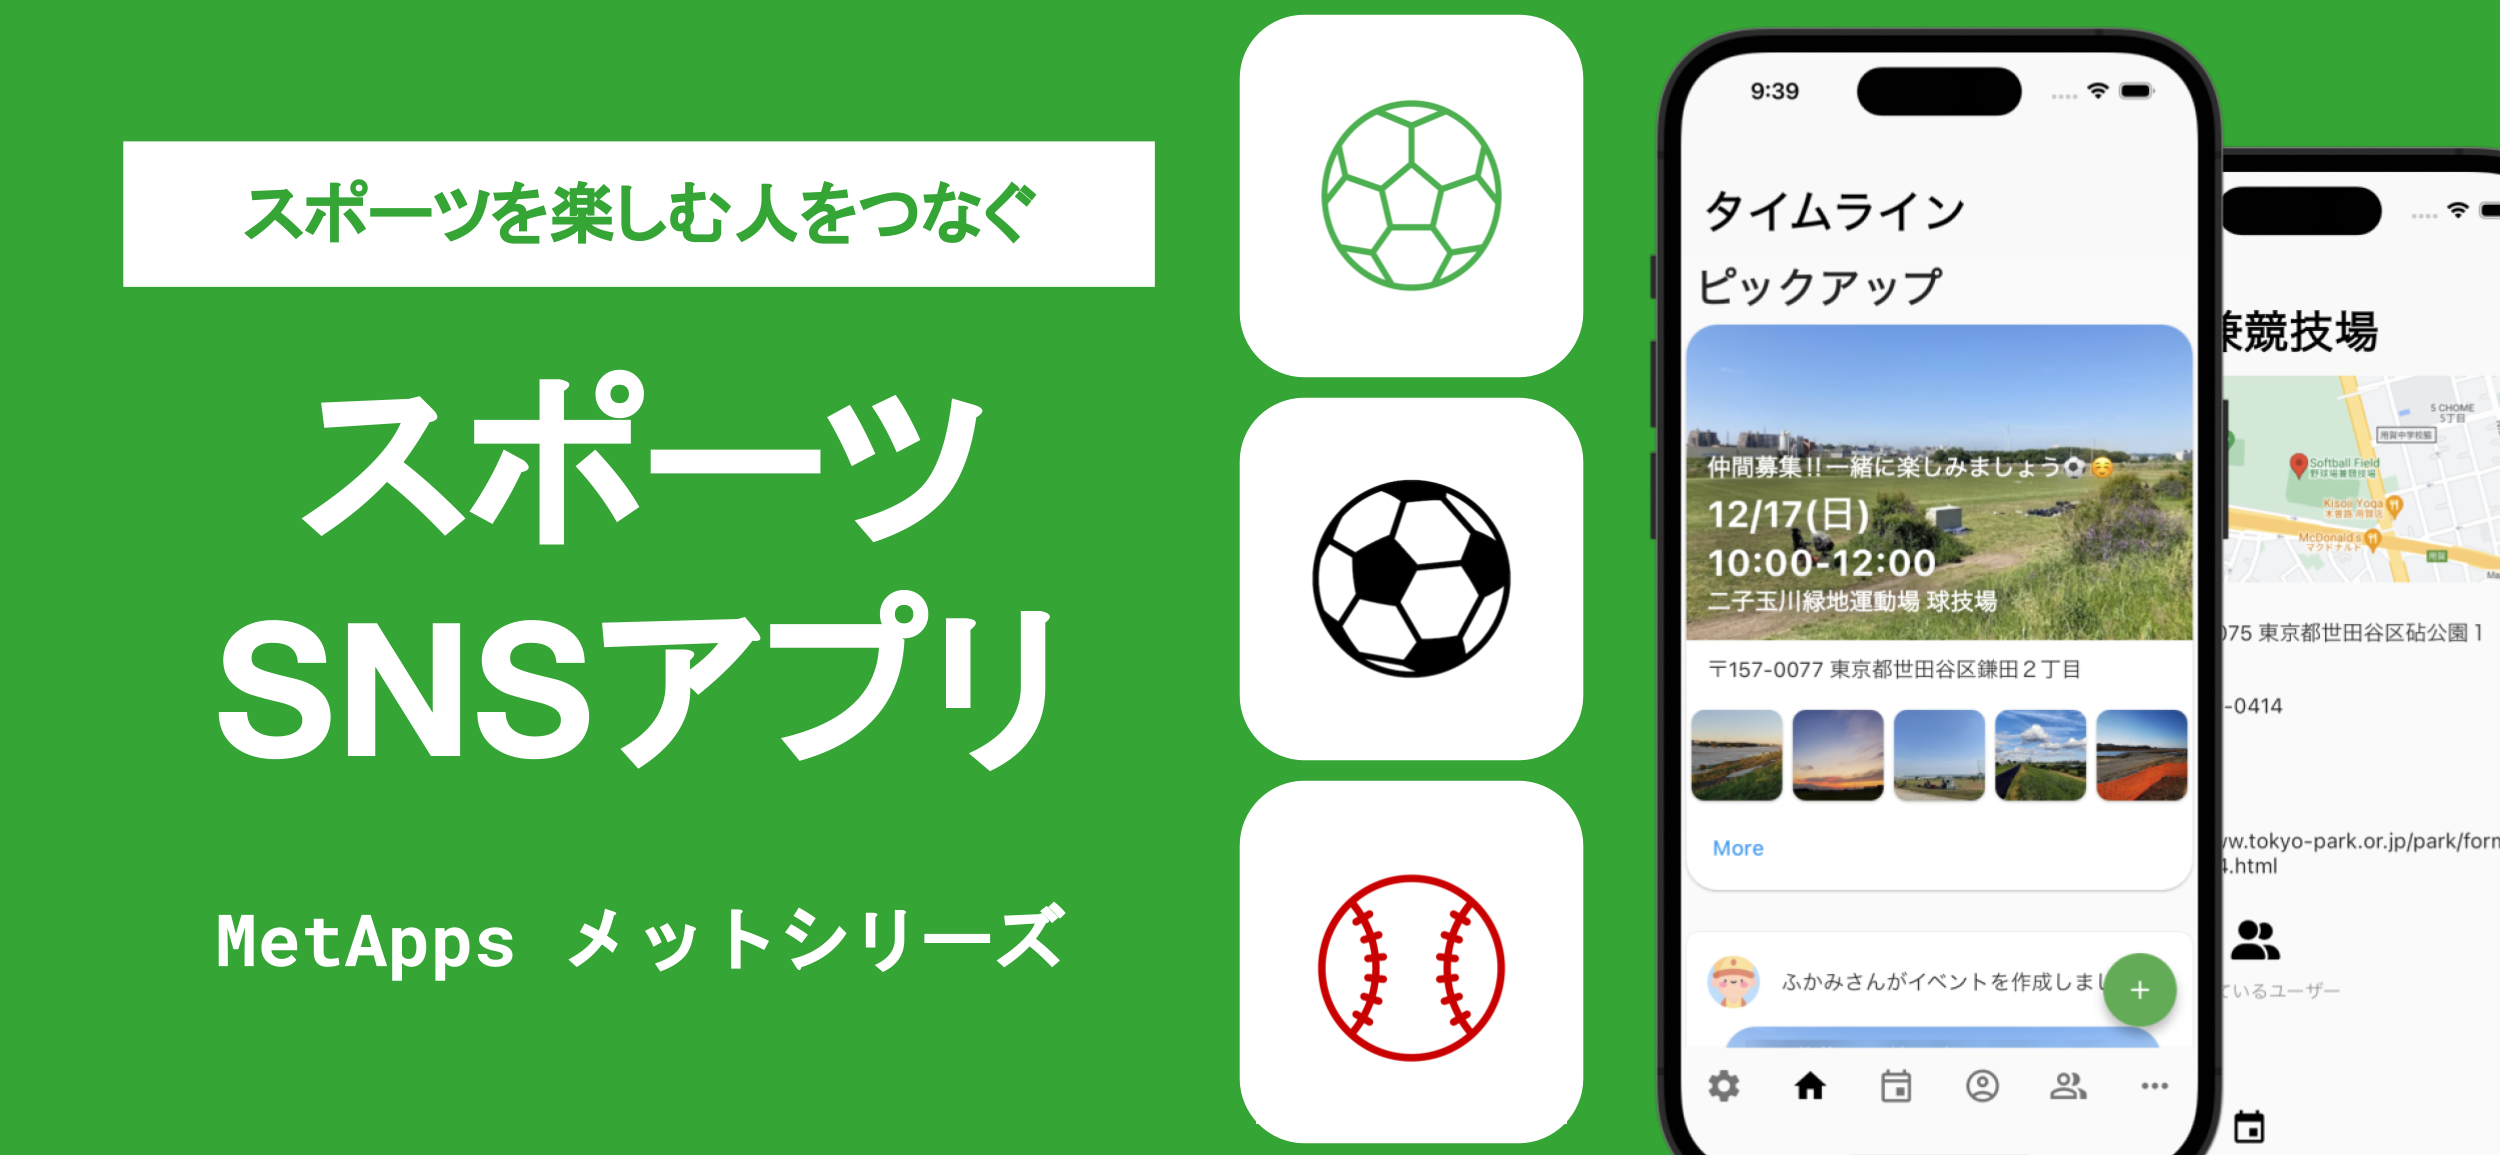
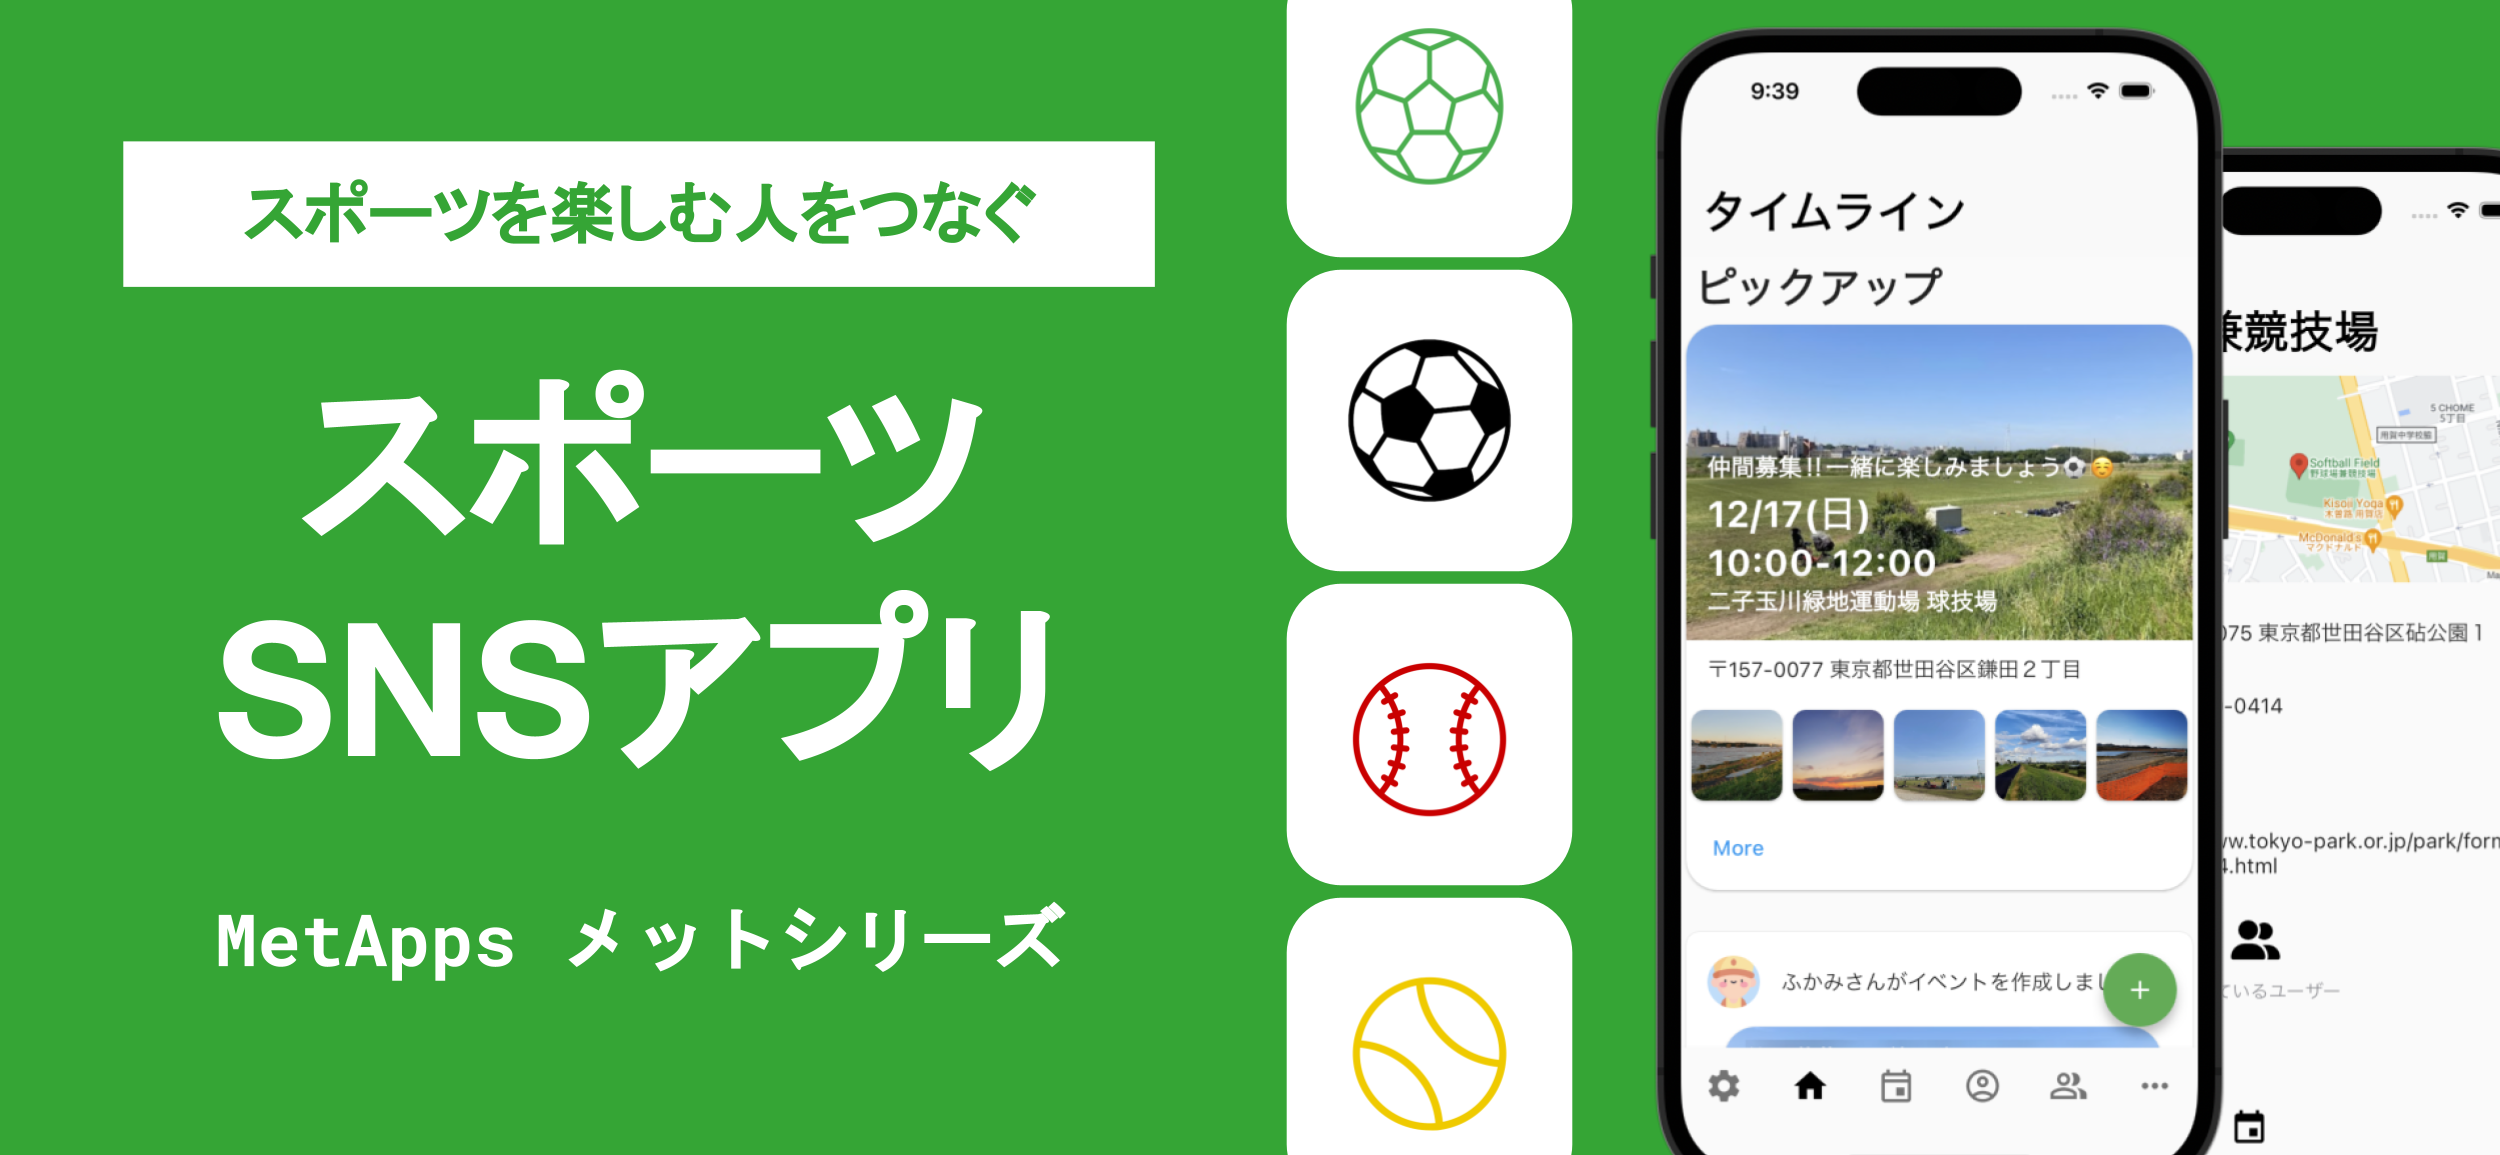
誠意的ファイル生成 #25

Changed region(s): [[0.468, 0.0, 0.6552, 1.0]]

diff --git a/docs/met-apps/index.html b/docs/met-apps/index.html
@@ -337,6 +337,34 @@ if (!doNotTrack) {
             </div>
         </div>
     </div>
+    <div class="container mt-100"  id="tennis-met">
+        <div class="columns">
+            <div class="column is-half">
+                <div style="text-align: center;">
+                    <img style="border: solid 5px white; border-radius: 30px; width: 180px;"
+                         src="https://company.p1st.app/images/logos/tennismet.png"
+                         alt="テニスメット"
+                    >
+                </div>
+            </div>
+            <div class="column is-half" style="margin-left: 0px; margin-top: 10px;">
+                <h1 class="light-text title is-2">テニスメット</h1>
+                <h1 class="light-text subtitle is-4">テニスSNSアプリ</h1>
+                <a href="https://itunes.apple.com/jp/app/6476718408">
+                    <img src="https://company.p1st.app/images/apps/App_Store_Badge.svg"
+                         style="height: 50px; vertical-align: top; margin-top: 11px;"
+                         alt="Download on the App Store"
+                    >
+                </a>
+                <a href="https://play.google.com/store/apps/details?id=app.p1st.tennis_met">
+                    <img src="https://company.p1st.app/images/apps/google-play-badge.png"
+                         style="height: 72px; vertical-align: top;"
+                         alt="GET IT ON Google Play"
+                    >
+                </a>
+            </div>
+        </div>
+    </div>
 
 </section>
 
@@ -657,6 +685,34 @@ if (!doNotTrack) {
             </div>
         </div>
     </div>
+    <div class="container mt-100"  id="tennis-met">
+        <div class="columns">
+            <div class="column is-half">
+                <div style="text-align: center;">
+                    <img style="border: solid 5px white; border-radius: 30px; width: 180px;"
+                         src="https://company.p1st.app/images/logos/tennismet.png"
+                         alt="テニスメット"
+                    >
+                </div>
+            </div>
+            <div class="column is-half" style="margin-left: 0px; margin-top: 10px;">
+                <h1 class="light-text title is-2">テニスメット</h1>
+                <h1 class="light-text subtitle is-4">テニスSNSアプリ</h1>
+                <a href="https://itunes.apple.com/jp/app/6476718408">
+                    <img src="https://company.p1st.app/images/apps/App_Store_Badge.svg"
+                         style="height: 50px; vertical-align: top; margin-top: 11px;"
+                         alt="Download on the App Store"
+                    >
+                </a>
+                <a href="https://play.google.com/store/apps/details?id=app.p1st.tennis_met">
+                    <img src="https://company.p1st.app/images/apps/google-play-badge.png"
+                         style="height: 72px; vertical-align: top;"
+                         alt="GET IT ON Google Play"
+                    >
+                </a>
+            </div>
+        </div>
+    </div>
 
 </section>
 
@@ -683,6 +739,7 @@ if (!doNotTrack) {
                                         <option value="フットサルメット">フットサルメット</option>
                                         <option value="サッカーメット">サッカーメット</option>
                                         <option value="草野球メット">草野球メット</option>
+                                        <option value="テニスメット">テニスメット</option>
                                     </select>
                                 </div>
                             </div>
@@ -756,6 +813,11 @@ if (!doNotTrack) {
               <li>
                 <a href="https://company.p1st.app/baseball-met">
                   草野球メット
+                </a>
+              </li>
+              <li>
+                <a href="https://company.p1st.app/met-apps">
+                  テニスメット
                 </a>
               </li>
             </ul>

diff --git a/docs/index.html b/docs/index.html
@@ -241,6 +241,25 @@ if (!doNotTrack) {
             </div>
           </div>
         </div>
+        <div class="column is-one-third">
+          <div class="feature-card is-bordered has-text-centered revealOnScroll delay-1" data-animation="fadeInLeft">
+            <div class="card-title">
+              <h4>テニスメット</h4>
+            </div>
+            <div class="card-subtitle">
+              <h4>テニスSNSアプリ</h4>
+            </div>
+            <div class="card-icon">
+              <img src="https://company.p1st.app/images/logos/tennismet.png">
+            </div>
+            <div class="card-text">
+                <p>テニスを楽しむ人のための「テニスSNSアプリ」。一緒にプレーできるメンバーを募集、気軽に参加、仲間を増やすなどなど、より楽しく、豊かなテニスライフを支えます。</p>
+            </div>
+            <div class="card-action">
+              <a href="https://company.p1st.app/met-apps" class="button btn-align-md accent-btn raised">アプリ紹介サイト</a>
+            </div>
+          </div>
+        </div>
       </div>
 
       
@@ -644,6 +663,11 @@ if (!doNotTrack) {
               <li>
                 <a href="https://company.p1st.app/baseball-met">
                   草野球メット
+                </a>
+              </li>
+              <li>
+                <a href="https://company.p1st.app/met-apps">
+                  テニスメット
                 </a>
               </li>
             </ul>

diff --git a/docs/aws-training/index.html b/docs/aws-training/index.html
@@ -669,6 +669,11 @@ if (!doNotTrack) {
                   草野球メット
                 </a>
               </li>
+              <li>
+                <a href="https://company.p1st.app/met-apps">
+                  テニスメット
+                </a>
+              </li>
             </ul>
           </div>
         </div>

diff --git a/docs/baseball-met/index.html b/docs/baseball-met/index.html
@@ -653,6 +653,11 @@ if (!doNotTrack) {
                   草野球メット
                 </a>
               </li>
+              <li>
+                <a href="https://company.p1st.app/met-apps">
+                  テニスメット
+                </a>
+              </li>
             </ul>
           </div>
         </div>

diff --git a/docs/football-met/index.html b/docs/football-met/index.html
@@ -653,6 +653,11 @@ if (!doNotTrack) {
                   草野球メット
                 </a>
               </li>
+              <li>
+                <a href="https://company.p1st.app/met-apps">
+                  テニスメット
+                </a>
+              </li>
             </ul>
           </div>
         </div>

diff --git a/docs/futsal-met/index.html b/docs/futsal-met/index.html
@@ -653,6 +653,11 @@ if (!doNotTrack) {
                   草野球メット
                 </a>
               </li>
+              <li>
+                <a href="https://company.p1st.app/met-apps">
+                  テニスメット
+                </a>
+              </li>
             </ul>
           </div>
         </div>
